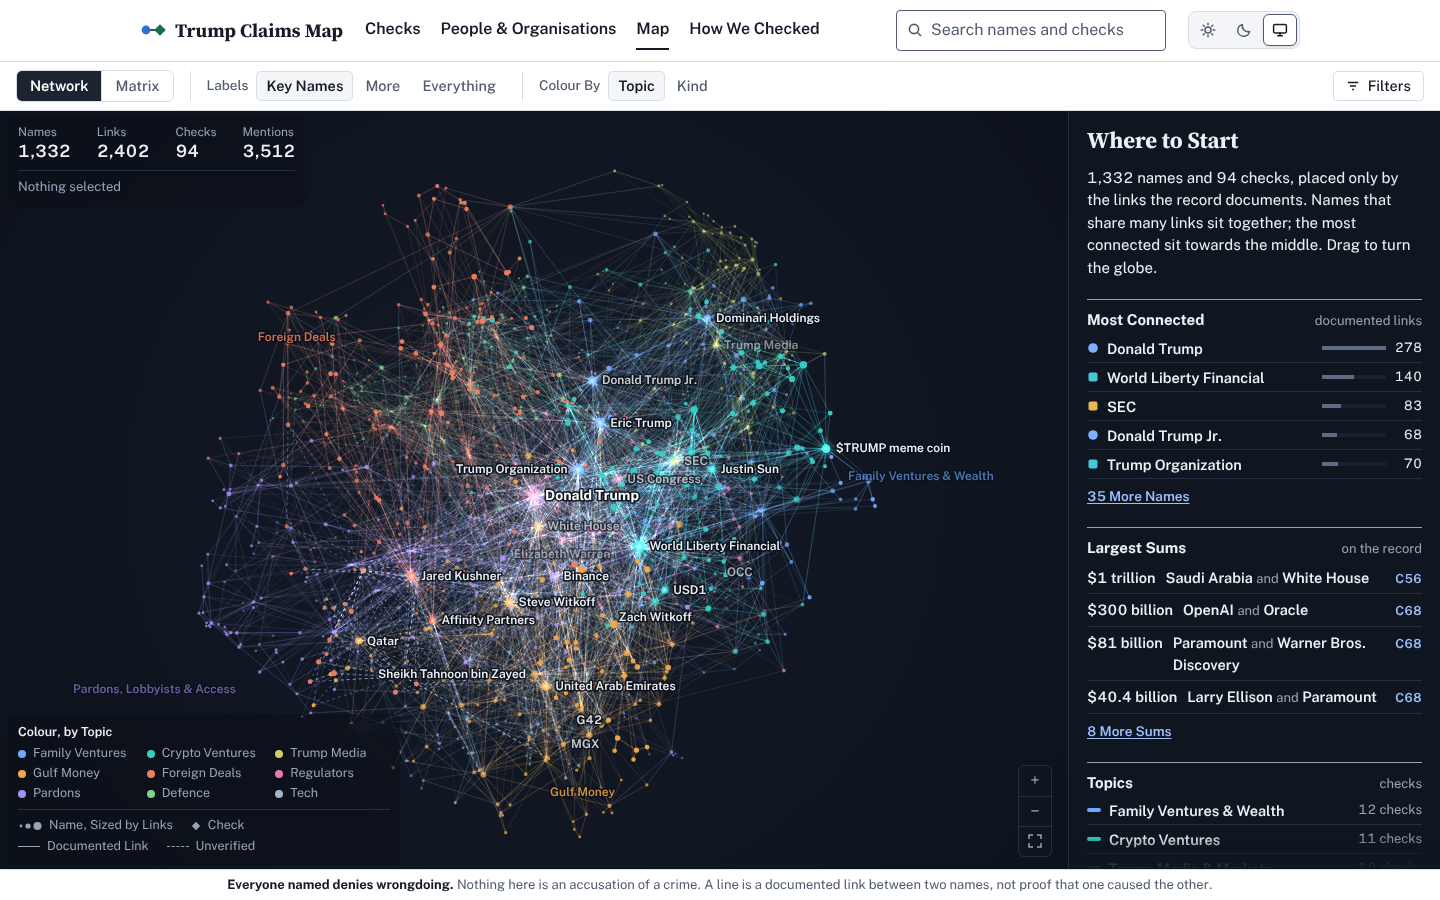
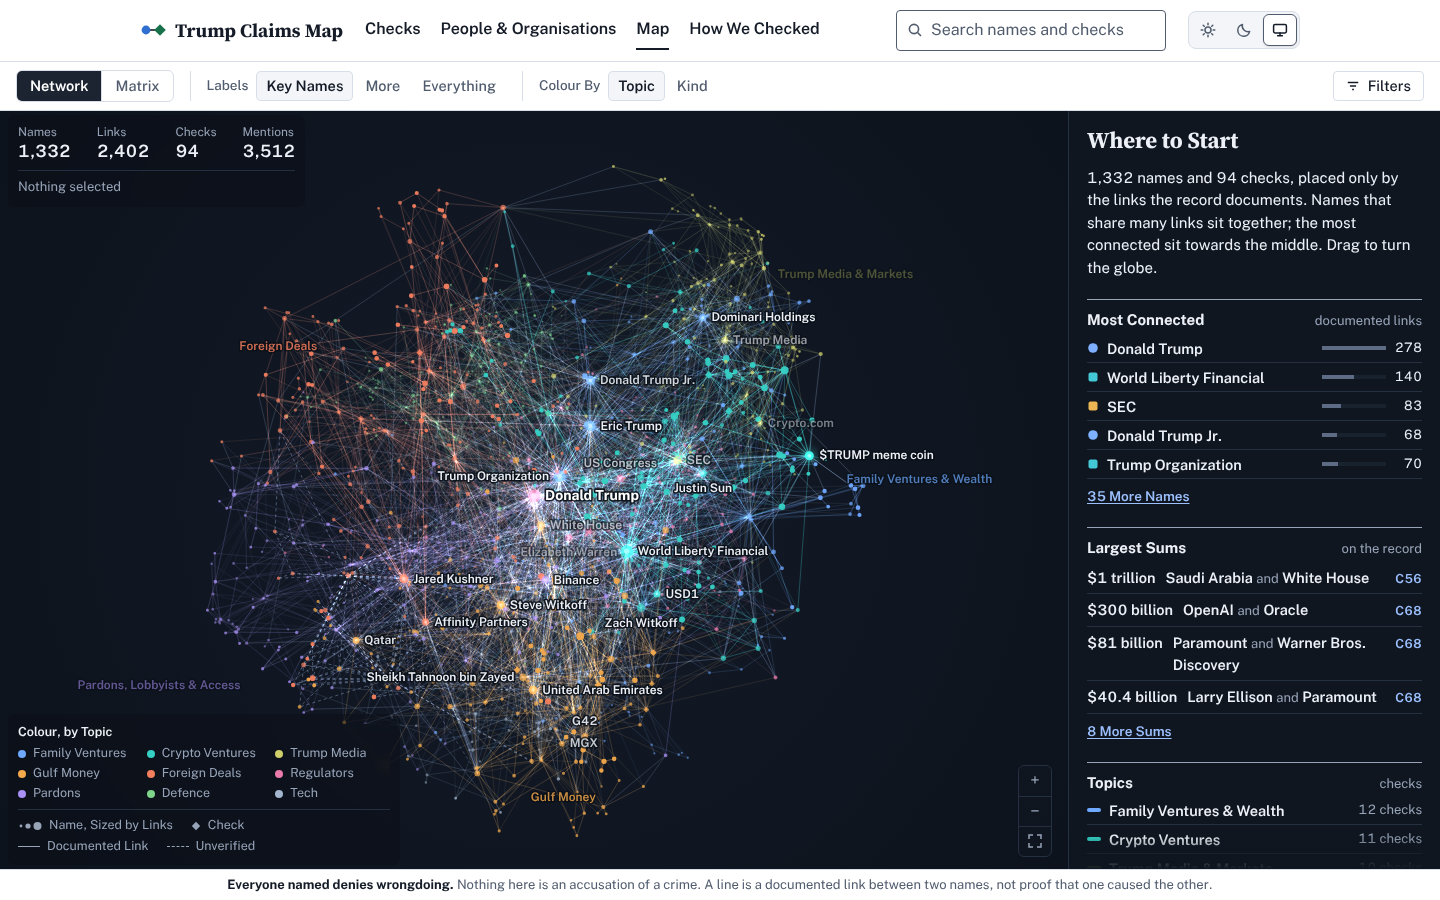
Cook round 4: 3D globe network with evidence dossier and chain-of-evidence tracing
Claude-Session: https://claude.ai/code/session_01XYvbbQtYM3GBHoPFVLJaGe

Changed region(s): [[0.125, 0.2178, 0.6875, 0.9333], [0.0625, 0.7467, 0.1562, 0.7778], [0.4375, 0.1867, 0.4688, 0.2178]]

diff --git a/cook/harness/globefunc.js b/cook/harness/globefunc.js
@@ -1,0 +1,71 @@
+// Functional pass over the globe view. Usage: node cook/harness/globefunc.js
+const {chromium}=require('playwright'); const serve=require('./serve.js');
+(async()=>{
+  const port=8400+Math.floor(Math.random()*200); const s=await serve(port); const b=await chromium.launch(); const errors=[], log=[];
+  const watch=(p,tag)=>{ p.on('console',m=>{if(m.type()==='error')errors.push(tag+': '+m.text());}); p.on('pageerror',e=>errors.push(tag+': '+e.message)); };
+  const ok=async(name,fn)=>{ let r; try{ r=await fn(); }catch(e){ r='THREW '+e.message.split('\n')[0]; } log.push((r===true?'pass ':'FAIL ')+name+(r===true?'':' -> '+r)); };
+  const txt=(p,sel)=>p.evaluate(q=>{const e=document.querySelector(q);return e&&!e.hidden?e.textContent:''},sel);
+  const probe=(p,k)=>p.evaluate(k=>window.__mapProbe(k),k);
+  const url=p=>p.url().split('#')[1];
+  let ctx=await b.newContext({viewport:{width:1440,height:900}}); await ctx.addInitScript(()=>{window.__STILL__=true;}); let p=await ctx.newPage(); watch(p,'desktop');
+  await p.goto('http://localhost:'+port+'/#map'); await p.waitForTimeout(1500);
+  await ok('rest panel: ranked names, sums, nine topics',async()=>(await p.locator('#panel .prank li').count())>=5&&(await p.locator('#panel .psums li').count())>=4&&(await p.locator('#panel .ptopics li').count())===9||'counts');
+  await ok('hud counts',async()=>/Names1,332Links2,402Checks94/.test(await txt(p,'#hud'))||await txt(p,'#hud'));
+  let t=await probe(p,'e:donald-trump'); await p.mouse.move(t.x,t.y); await p.waitForTimeout(250);
+  await ok('hover shows name',async()=>/Donald Trump/.test(await txt(p,'#tip'))||await txt(p,'#tip'));
+  await p.mouse.click(t.x,t.y); await p.waitForTimeout(500);
+  await ok('click selects, sets hash, opens dossier',async()=>url(p)==='map-donald-trump'&&/Donald Trump/.test(await txt(p,'#panel h2'))&&(await p.locator('#panel .dfigs div').count())>=3||url(p));
+  await ok('dossier has evidence lines with citations',async()=>(await p.locator('#panel .evrow .cite').count())>3||'no cites');
+  const before=await probe(p,'e:sec'); await p.mouse.move(400,500); await p.mouse.down(); await p.mouse.move(520,440,{steps:6}); await p.mouse.up(); await p.waitForTimeout(700);
+  const after=await probe(p,'e:sec');
+  await ok('drag turns the globe and keeps the selection',async()=>Math.hypot(after.x-before.x,after.y-before.y)>20&&url(p)==='map-donald-trump'||JSON.stringify([before,after]));
+  const r0=(await probe(p,'e:sec')); await p.mouse.move(500,450); await p.mouse.wheel(0,-400); await p.waitForTimeout(300); const r1=await probe(p,'e:sec');
+  await ok('wheel zooms',async()=>r1.r>r0.r*1.1||r0.r+' '+r1.r);
+  await p.click('#zoom-fit'); await p.waitForTimeout(800);
+  await p.click('[data-act="iso"]'); await p.waitForTimeout(500);
+  await ok('isolate: banner and fewer names',async()=>/Isolated/.test(await txt(p,'#banner'))&&!/Names1,332/.test(await txt(p,'#hud'))||await txt(p,'#hud'));
+  await p.click('[data-act="iso-more"]'); await p.waitForTimeout(300); await p.click('[data-act="iso-clear"]'); await p.waitForTimeout(300);
+  await ok('isolate cleared',async()=>(await txt(p,'#banner'))===''&&/Names1,332/.test(await txt(p,'#hud'))||'left');
+  await p.goto('http://localhost:'+port+'/#map-jared-kushner'); await p.waitForTimeout(900);
+  await p.click('[data-act="path"]'); await p.waitForTimeout(300);
+  await ok('trace asks for a second mark',async()=>/Trace a path/.test(await txt(p,'#banner'))||await txt(p,'#banner'));
+  t=await probe(p,'e:sec'); await p.mouse.click(t.x,t.y); await p.waitForTimeout(800);
+  await ok('path by clicking a second mark: numbered steps with citations',async()=>(await p.locator('#panel .steps li').count())>=1&&(await p.locator('#panel .steps .cite').count())>=1&&/Path/.test(await txt(p,'#hud'))||await txt(p,'#panel h2'));
+  await p.click('#panel [data-act="path-clear"]'); await p.waitForTimeout(400);
+  await ok('path cleared, dossier back',async()=>!(await p.locator('#panel .steps').count())||'steps left');
+  await p.goto('http://localhost:'+port+'/#map'); await p.waitForTimeout(700);
+  for(const l of [1,2,0]){ await p.click('#detail-sw [data-level="'+l+'"]'); await p.waitForTimeout(250); }
+  await ok('label levels switch',async()=>(await p.getAttribute('#detail-sw [data-level="0"]','aria-pressed'))==='true'||'pressed');
+  await p.click('#color-sw [data-color="kind"]'); await ok('colour by kind updates the key',async()=>/Kind of Name/.test(await txt(p,'#legend'))||await txt(p,'#legend')); await p.click('#color-sw [data-color="topic"]');
+  await p.click('#panel .ptopics a[data-topic="gulf-money"]'); await p.waitForTimeout(500);
+  await ok('topic from panel',async()=>url(p)==='map-topic-gulf-money'&&/13 Checks/.test(await txt(p,'#panel'))&&/Gulf Money/.test(await txt(p,'#hud'))||url(p));
+  await p.click('.pback'); await p.waitForTimeout(400);
+  await ok('All Topics goes back',async()=>url(p)==='map'&&/Where to Start/.test(await txt(p,'#panel h2'))||url(p));
+  await p.click('#legend a[data-topic="crypto-ventures"]').catch(()=>{}); await p.waitForTimeout(400);
+  await ok('topic from the key',async()=>/^map-topic-/.test(url(p))||url(p)); await p.keyboard.press('Escape'); await p.goto('http://localhost:'+port+'/#map'); await p.waitForTimeout(500);
+  await p.click('#tools-toggle'); await p.waitForTimeout(200); await p.click('.chk >> nth=1'); await p.waitForTimeout(300);
+  await ok('filter: count shown and fewer names',async()=>(await txt(p,'#filter-count'))==='1'&&!/Names1,332/.test(await txt(p,'#hud'))||await txt(p,'#hud'));
+  await p.click('[data-act="reset"]'); await p.waitForTimeout(300); await p.keyboard.press('Escape');
+  await p.fill('#search','World Liberty'); await p.waitForTimeout(400); await p.keyboard.press('ArrowDown'); await p.keyboard.press('Enter'); await p.waitForTimeout(700);
+  log.push('info search from the map goes to: '+url(p));
+  await p.goto('http://localhost:'+port+'/#map-C06'); await p.waitForTimeout(700);
+  await ok('deep link to a check on the map',async()=>(await txt(p,'#panel h2')).length>5&&/Check C06/.test(await txt(p,'#hud'))||await txt(p,'#hud'));
+  await p.click('[data-view="matrix"]'); await p.waitForTimeout(500); await ok('matrix still opens',async()=>url(p)==='map-matrix'||url(p));
+  await p.click('[data-view="network"]'); await p.waitForTimeout(500); await ok('back to network',async()=>url(p)==='map'&&!(await p.evaluate(()=>document.getElementById('map-stage').hidden))||url(p));
+  await ctx.close();
+  // motion: turns by itself at rest; not with reduced motion
+  for(const rm of ['no-preference','reduce']){ ctx=await b.newContext({viewport:{width:1200,height:800},reducedMotion:rm}); p=await ctx.newPage(); watch(p,'motion');
+    await p.goto('http://localhost:'+port+'/#map'); await p.waitForTimeout(2600); const a=await probe(p,'e:sec'); await p.waitForTimeout(1500); const c=await probe(p,'e:sec');
+    const moved=Math.hypot(a.x-c.x,a.y-c.y)>1.5; await ok(rm==='reduce'?'reduced motion: no turning by itself':'turns slowly by itself at rest',async()=>(rm==='reduce'?!moved:moved)||JSON.stringify([a,c])); await ctx.close(); }
+  // phone
+  ctx=await b.newContext({viewport:{width:400,height:860},hasTouch:true,isMobile:true}); await ctx.addInitScript(()=>{window.__STILL__=true;}); p=await ctx.newPage(); watch(p,'phone');
+  await p.goto('http://localhost:'+port+'/#map'); await p.waitForTimeout(1500);
+  t=await probe(p,'e:donald-trump'); await p.touchscreen.tap(t.x,t.y); await p.waitForTimeout(700);
+  await ok('phone: tap selects, bottom sheet opens',async()=>url(p)==='map-donald-trump'&&/Donald Trump/.test(await txt(p,'#panel h2'))||url(p));
+  await ok('phone: no horizontal overflow',async()=>!(await p.evaluate(()=>document.documentElement.scrollWidth>document.documentElement.clientWidth+1))||'overflow');
+  await p.click('#panel [data-act="close"]'); await p.waitForTimeout(300);
+  await p.click('#topic-chips [data-topic="gulf-money"]'); await p.waitForTimeout(500);
+  await ok('phone: topic chip',async()=>url(p)==='map-topic-gulf-money'||url(p));
+  await ctx.close(); await b.close(); s.close();
+  console.log(log.join('\n')); console.log(errors.length?('ISSUES:\n'+errors.join('\n')):'no console errors');
+})();

diff --git a/map/app.js b/map/app.js
@@ -1896,7 +1896,7 @@
   var RKLABEL = { money: 'Money', own: 'Ownership & Business', role: 'Advice & Roles', gov: 'Government & Law', family: 'Family', media: 'Reporting' };
   var gl = { ok: false, N: 0, P: null, sx: null, sy: null, sz: null, ss: null, q: [1, 0, 0, 0], q0: [1, 0, 0, 0], R: new Float32Array(9), zoom: 1, cx: 0, cy: 0, rad: 100, D: 3.1,
     wx: 0, wy: 0, drag: null, pinch: null, anim: null, raf: 0, last: 0, idleAt: 0, over: false, colorBy: 'topic', still: !!window.__STILL__, hovLink: null, tdir: [], tcap: [],
-    stamp: 0, em: null, emSt: null, emN: null, emL: null, ms: 0, frames: 0, bgGrad: null, sprites: {}, dragged: false };
+    stamp: 0, lowq: 0, moving: false, em: null, emSt: null, emN: null, emL: null, ms: 0, frames: 0, bgGrad: null, sprites: {}, dragged: false };
   function glRand(seed) { var s = seed >>> 0; return function () { s = (s + 0x6D2B79F5) | 0; var t = Math.imul(s ^ (s >>> 15), 1 | s); t = (t + Math.imul(t ^ (t >>> 7), 61 | t)) ^ t; return ((t ^ (t >>> 14)) >>> 0) / 4294967296; }; }
   function qmul(a, b) { return [a[0] * b[0] - a[1] * b[1] - a[2] * b[2] - a[3] * b[3], a[0] * b[1] + a[1] * b[0] + a[2] * b[3] - a[3] * b[2], a[0] * b[2] - a[1] * b[3] + a[2] * b[0] + a[3] * b[1], a[0] * b[3] + a[1] * b[2] - a[2] * b[1] + a[3] * b[0]]; }
   function qaxis(x, y, z, ang) { var l = Math.hypot(x, y, z) || 1, s = Math.sin(ang / 2) / l; return [Math.cos(ang / 2), x * s, y * s, z * s]; }
@@ -1937,9 +1937,7 @@
       if (n.kind === 'claim' || (n.kind === 'entity' && (others >= 2 || n.cl.length >= 2 || n === hub))) { n.gs = S.length; S.push(n); }
     });
     var M = S.length, x = new Float64Array(M), y = new Float64Array(M), z = new Float64Array(M), vx = new Float64Array(M), vy = new Float64Array(M), vz = new Float64Array(M),
-      m = new Float64Array(M), gx = new Float64Array(M), ax = new Float64Array(M), ay = new Float64Array(M), az = new Float64Array(M), ak = new Float64Array(M), deg = new Float64Array(M);
-    window.__layoutM = M;
-    var SL = links.filter(function (l) { return l.source.gs >= 0 && l.target.gs >= 0; }), E = SL.length;
+      m = new Float64Array(M), gx = new Float64Array(M), ax = new Float64Array(M), ay = new Float64Array(M), az = new Float64Array(M), ak = new Float64Array(M), deg = new Float64Array(M);    var SL = links.filter(function (l) { return l.source.gs >= 0 && l.target.gs >= 0; }), E = SL.length;
     var ls = new Int32Array(E), lt = new Int32Array(E), ld = new Float32Array(E), lk = new Float32Array(E), lb = new Float32Array(E);
     SL.forEach(function (l, q) { ls[q] = l.source.gs; lt[q] = l.target.gs; deg[ls[q]]++; deg[lt[q]]++; });
     SL.forEach(function (l, q) {
@@ -2376,7 +2374,7 @@
       var u = Math.min(1, (t - a.t0) / a.dur), e = u < 0.5 ? 4 * u * u * u : 1 - Math.pow(-2 * u + 2, 3) / 2;
       gl.q = qslerp(a.q0, a.q1, e); gl.zoom = a.z0 + (a.z1 - a.z0) * e;
       if (u >= 1) gl.anim = null; more = true;
-    } else if (gl.drag) more = false;
+    } else if (gl.drag) { more = !!gl.drag.live; gl.drag.live = false; }
     else if (Math.abs(gl.wx) + Math.abs(gl.wy) > 0.00003) {
       var ang = Math.hypot(gl.wx, gl.wy) * dt; glSpin(gl.wx, gl.wy, ang);
       var k = Math.pow(0.93, dt / 16); gl.wx *= k; gl.wy *= k; more = true;
@@ -2595,7 +2593,7 @@
           return '<li data-hov="' + esc(o.key) + '"><span class="when">' + esc(fdate(String(r.date).split('/')[0])) + '</span><span class="sumsay">' + esc(cap(plainSentence(r))) + '</span>' + cites(r.claims.slice(0, 1)) + '</li>';
         }), 5, 'Dated Links', 'ol', 'pchecks ptl');
         if (n.cl.length) body += '<h3>Checks That Mention ' + (n.group === 'person' ? 'Them' : 'It') + ' <span class="cnt">' + n.cl.length + '</span></h3>' + fold(n.cl.map(function (c) { return '<li data-hov="' + esc(c.key) + '">' + kmark(c) + nodeBtn(c, c.title) + '<a class="cite" href="' + claimHref(c) + '" title="Open the check">' + esc(c.id) + '</a></li>'; }), 6, 'Checks', 'ul', 'pchecks');
-        h = panelShell(kmark(n) + esc(TLABEL[n.type]) + (n.top ? ' · <span class="tsw" style="background:var(--t' + (n.top.ci + 1) + ')" aria-hidden="true"></span>' + esc(n.top.name) : ''), esc(n.name), body, acts);
+        h = panelShell(kmark(n) + esc(TLABEL[n.type]) + (n.top && n !== map.hub ? ' · <span class="tsw" style="background:var(--t' + (n.top.ci + 1) + ')" aria-hidden="true"></span>' + esc(n.top.name) : ''), esc(n.name), body, acts);
       } else if (n.kind === 'claim') {
         body = (isUnv(n) ? '<p class="pflag">' + mark('unverified') + 'Denied by everyone named and not corroborated</p>' : '') + '<p class="prole">' + rich(firstSentence(n.bottom_line)) + '</p>' +
           '<p class="ptally">' + bar(n.tally || [], 'mini') + esc(tallyText(n)) + '</p>';
@@ -2797,7 +2795,7 @@
         if (!gl.dragged) { gl.dragged = true; canvas.classList.add('grabbing'); if (map.hover || gl.hovLink) { map.hover = null; gl.hovLink = null; showTip(null); } hintOff(); }
         glSpin(dy, dx, Math.hypot(dx, dy) / R);
         gl.wx = gl.wx * 0.4 + 0.6 * dy / R / dt; gl.wy = gl.wy * 0.4 + 0.6 * dx / R / dt;
-        requestDraw(); return;
+        gl.drag.live = true; glWake(); return;
       }
       if (e.pointerType !== 'mouse') return;
       gl.over = true;
